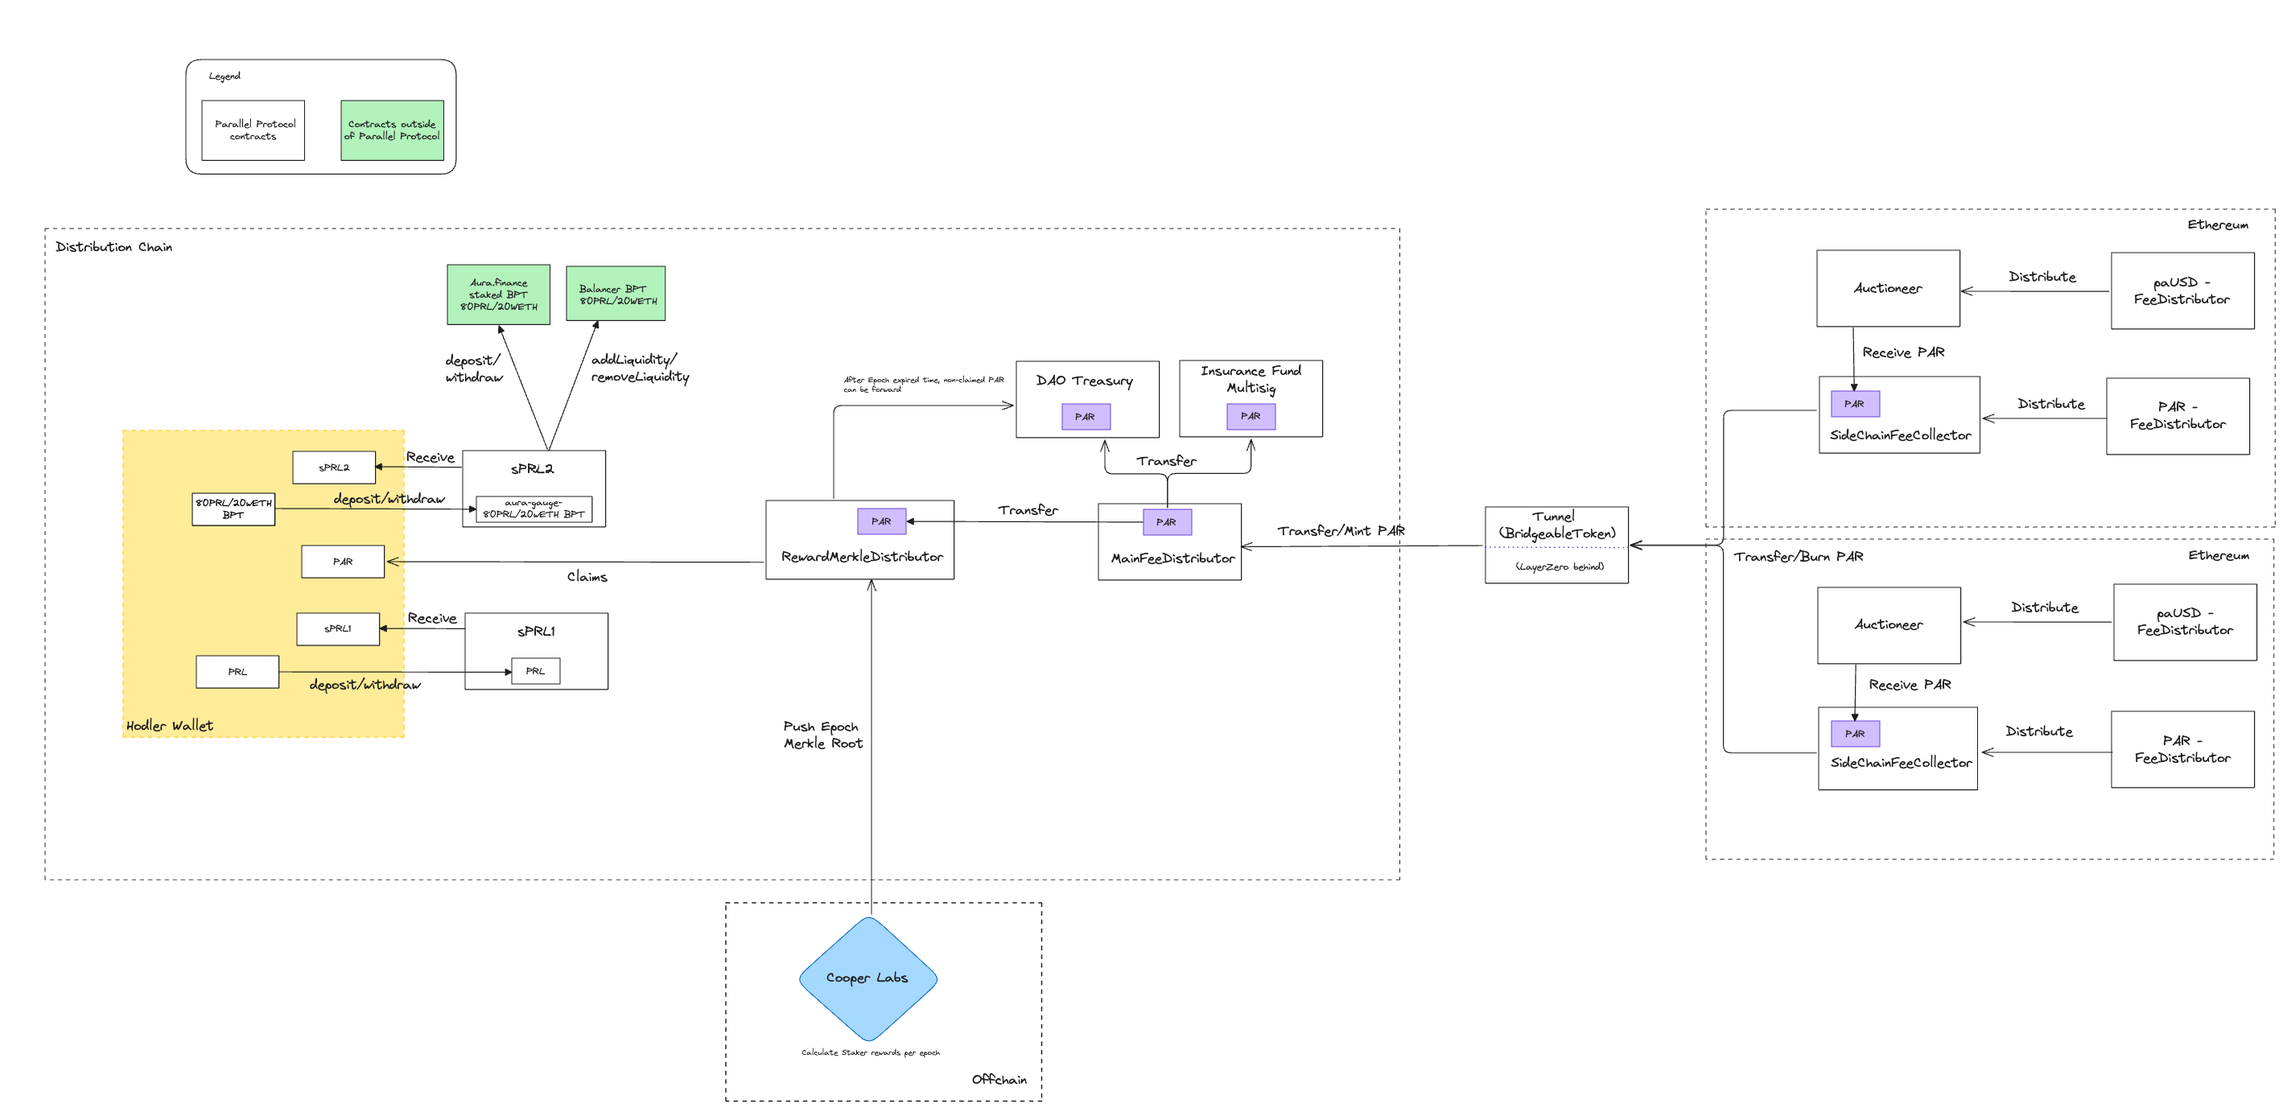
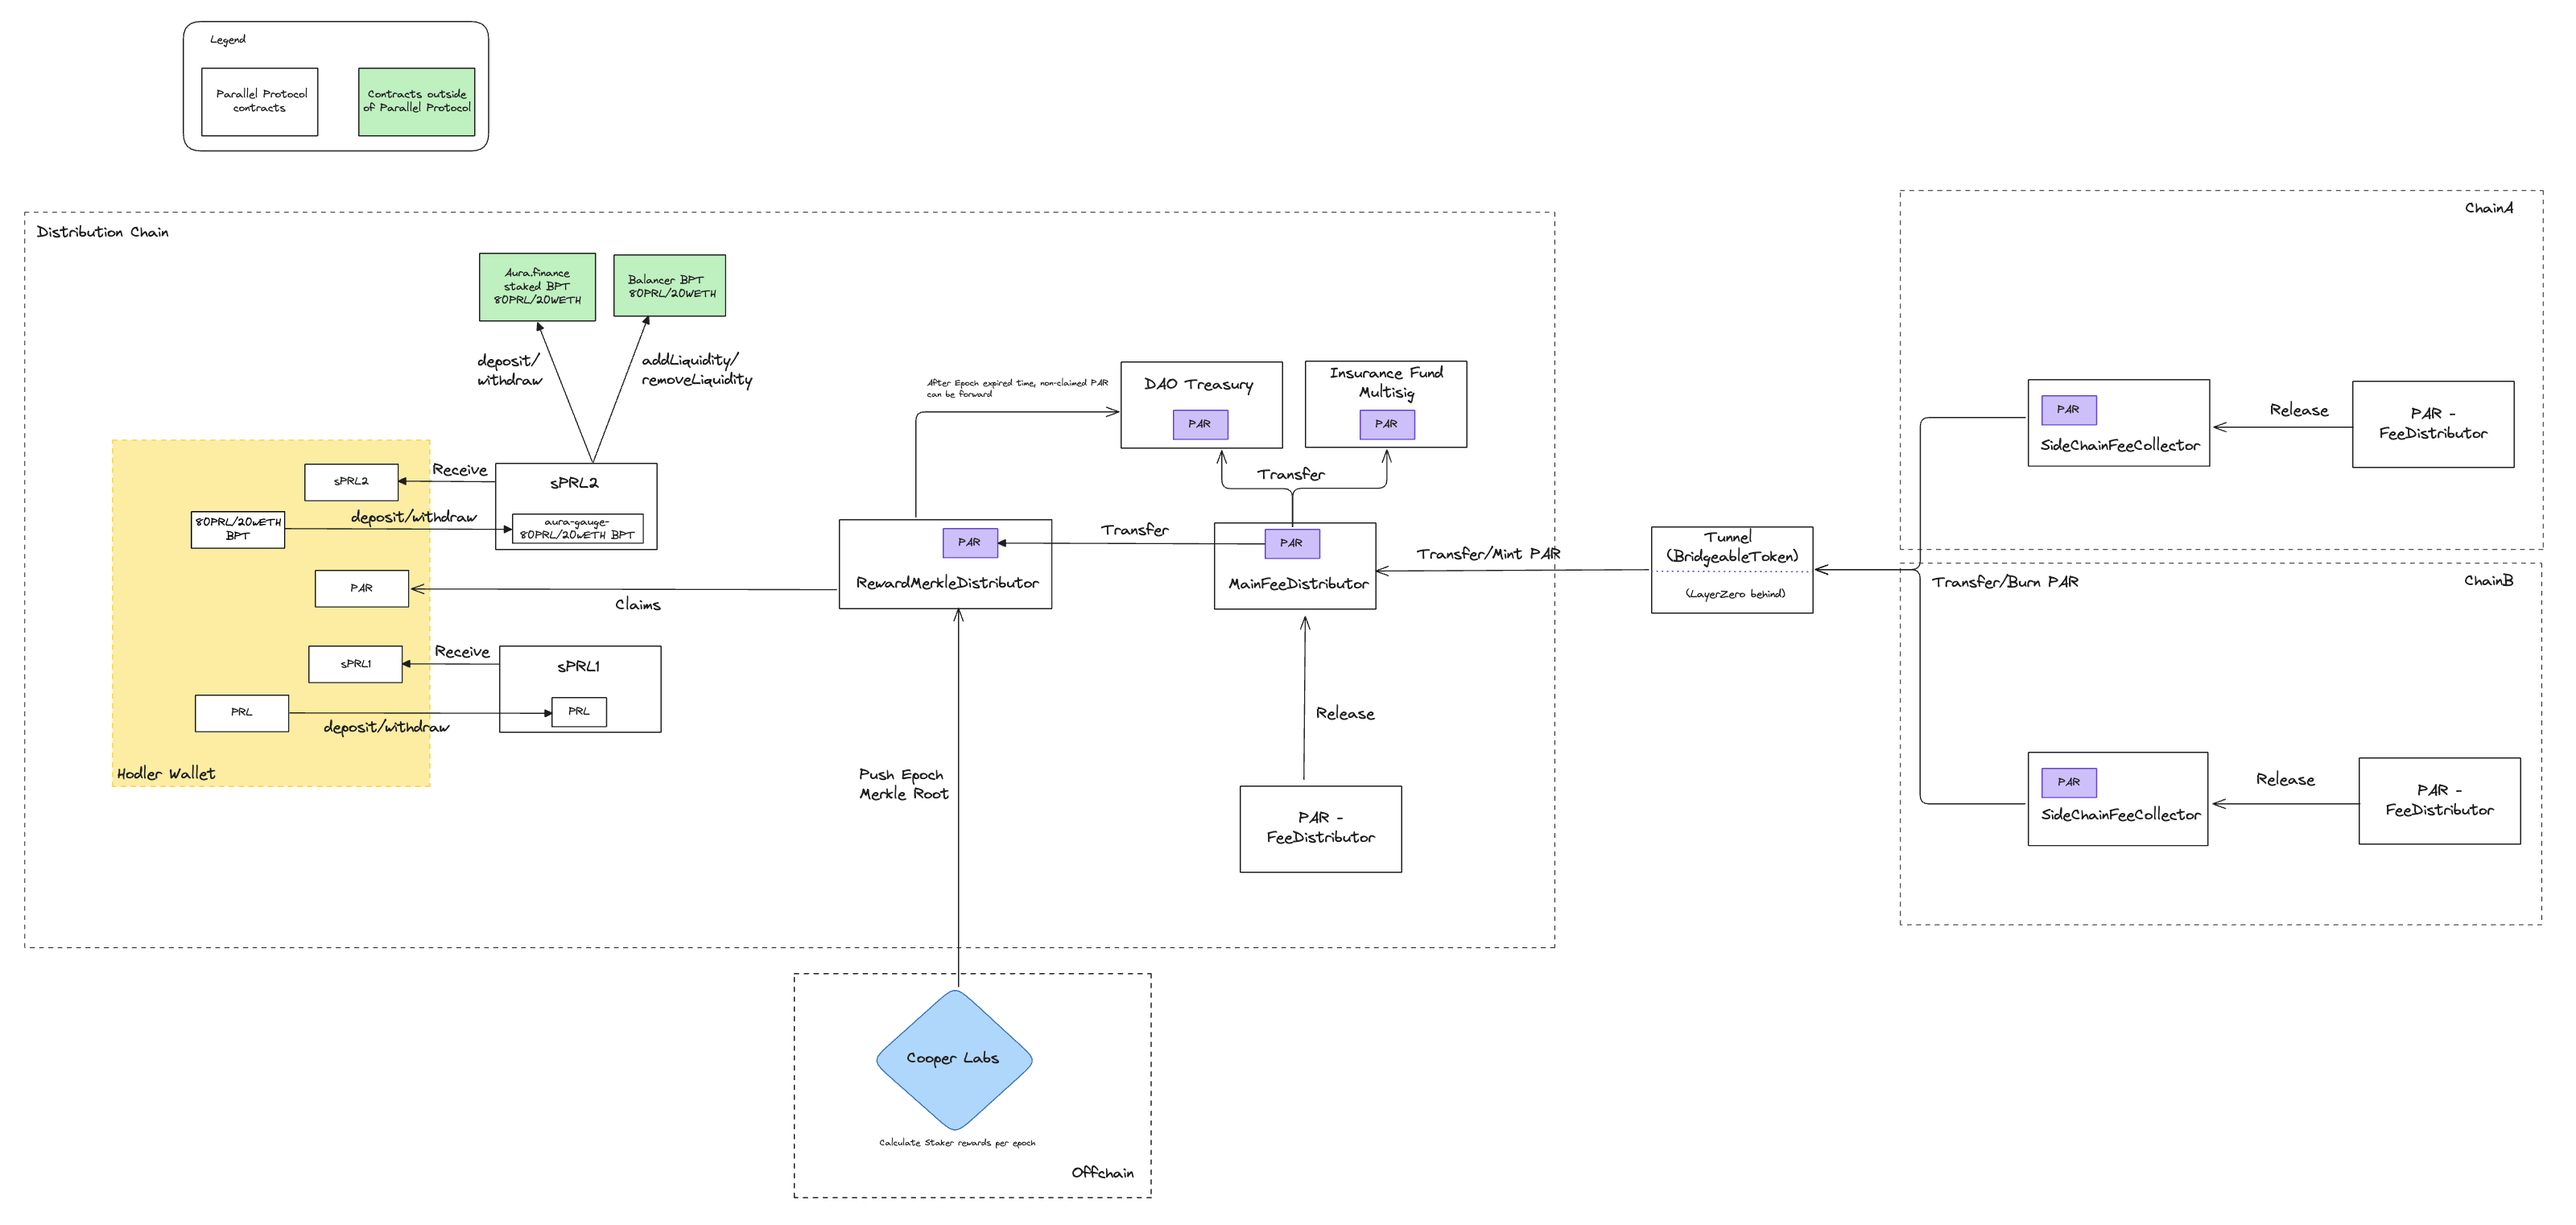
docs: update documentation

diff --git a/hardhat.config.ts b/hardhat.config.ts
@@ -32,7 +32,7 @@ const config: HardhatUserConfig = {
         settings: {
           optimizer: {
             enabled: true,
-            runs: 1000,
+            runs: 10_000,
           },
         },
       },

diff --git a/docs/TechnicalSpecs.md b/docs/TechnicalSpecs.md
@@ -4,8 +4,6 @@
 
 The Parallel Tokenomics is a set of contracts that allows :
 
-- to run dutch auctions for getting a single fee token and that will be sent to the fee distributor deployed on that
-  chain (Auctioneer)
 - to send the fees to the main fee distributor on the destination chain (SideChainFeeDistributor)
 - to distribute fees generated by the protocol to the listed fee receivers (MainFeeDistributor)
 - users to stake their PRL tokens to earn rewards either in single staking (sPRL1) or in a 80PRL/20WETH balancer pool
@@ -26,79 +24,82 @@ See below the high level architecture of the protocol:
 
 ## 3. Key Operation Flows
 
-### 3.1 Auction Flow
-
-- At start the deployer will set the initial price, duration of the auction, the price multiplier and the start time of
-  the first auction.
-- At the start time, the auction will be open and the total price expected to be paid will decrease until the end of the
-  auction duration.
-- When someone buys the assets, the price will be updated using the price multiplier, the current paid price and the
-  minimum price.
-- The token used to pay for the assets will be sent to the payment receiver (SideChainFeeCollertor or MainFeeDistributor
-  depending on the chain).
-
-### 3.2 Staking Flow
+### 3.1 Staking Flow
 
 This section contains the flows related to the staking part of the protocol.
 
-#### 3.2.1 sPRL1 Flow
+#### 3.1.1 sPRL1 Flow
 
-##### 3.2.1.1 sPRL1 Deposit
+##### 3.1.1.1 sPRL1 Deposit
 
 - Transfer PRL tokens to the sPRL1 contract
 - Mint sPRL1 tokens to the user equivalent to the amount of PRL tokens transferred
 
-##### 3.2.1.2 sPRL1 Request Withdraw
+##### 3.1.1.2 sPRL1 Request Withdraw
 
 - Burn the amount of sPRL1 tokens that the user wants to withdraw
 - Set the unlocking time for this request
 
-##### 3.2.1.3 sPRL1 Withdraw
+##### 3.1.1.3 sPRL1 Withdraw
 
 - Calculate the penalty based on the time left before the unlocking time.
 - Send the PRL tokens to the user
 - mint sPRL1 tokens to the fee receiver equal to the amount slashed from the penalty.
 
-#### 3.2.2 sPRL2 Flow
+##### 3.1.1.4 sPRL1 EmergencyWithdraw
+
+- Burn the amount of sPRL1 tokens that the user wants to withdraw
+- Send the PRL tokens to the user without penalties.
+
+#### 3.1.2 sPRL2 Flow
 
 This section contains the flows related to the sPRL2 contract.
 
-##### 3.2.2.1 sPRL2 Deposit PRL/WETH or PRL/ETH
+##### 3.1.2.1 sPRL2 Deposit PRL/WETH or PRL/ETH
 
 - Transfer PRL/WETH or PRL/ETH to the sPRL2 contract
 - Deposit ETH to WETH if needed
 - Add PRL/WETH liquidity into the Balancer pool (80PRL/20WETH)
 - Receive BPT tokens
 - Stake BPT tokens in Aura
-- Receive Aura BPT lp tokens
 - mint sPRL2 tokens to the user equivalent to the amount of Aura BPT lp tokens received
 
-##### 3.2.2.1 sPRL2 Deposit Aura BPT 80PRL/20WETH
+##### 3.1.2.2 sPRL2 Deposit BPT 80PRL/20WETH
 
-- Transfer PRL/WETH or PRL/ETH to the sPRL2 contract
-- Mint sPRL2 tokens to the user equivalent to the amount of PRL/WETH or PRL/ETH transferred
+- Transfer BPT to the sPRL2 contract
+- Deposit BPT into Aura pool and stake it
+- Mint sPRL2 tokens to the user equivalent to the amount of BPT transferred
 
-##### 3.2.2.2 sPRL2 Request Withdraw
+##### 3.1.2.3 sPRL2 Request Withdraw
 
 - Burn the amount of sPRL2 tokens that the user wants to withdraw
 - Set the unlocking time for this request
 
-##### 3.2.2.3 sPRL2 Withdraw PRL/ETH or PRL/WETH
+##### 3.1.2.4 sPRL2 Withdraw PRL/ETH or PRL/WETH
 
 - Calculate the penalty based on the time left before the unlocking time.
-- Withdraw the amount of Aura BPT lp tokens that the can withdraw after penalties from the Aura pool
+- Withdraw and unwrap the amount of Aura BPT
 - Receive Balancer BPT tokens from Aura
 - Withdraw the amount of PRL/WETH from the Balancer pool
 - Send the PRL/WETH to the user or PRL/ETH to the user
-- Mint sPRL2 tokens to the fee receiver equal to the amount slashed from the penalty.
+- Send the BPT lp penalty to the fee receiver
 
-##### 3.2.2.3 sPRL2 Withdraw Aura BPT 80PRL/20WETH
+##### 3.1.2.5 sPRL2 Withdraw BPT 80PRL/20WETH
 
 - Calculate the penalty based on the time left before the unlocking time.
-- Send the Aura BPT lp tokens to the user
-- Send the Aura BPT lp penalty to the fee receiver
+- Withdraw the amount of Aura BPT from Aura
+- Receive Balancer BPT tokens from Aura
+- Send the BPT lp tokens to the user
+- Send the BPT lp penalty to the fee receiver
 
-### 3.3 Reward Distribution Flow
+##### 3.1.2.6 sPRL2 EmergencyWithdraw
+
+- Burn the amount of sPRL2 tokens that the user wants to withdraw
+- Withdraw the amount of Aura BPT from Aura
+- Receive Balancer BPT tokens from Aura
+- Send the BPT tokens to the user without penalties.
+
+### 3.2 Reward Distribution Flow
 
 - RewardMerkleDistributor will receive the fees from the MainFeeDistributor at any time.
 - Using off-chain events and calculations, the protocol retrieve the total amount received during a specific period.
@@ -149,28 +150,12 @@ using Parallel Tunnel. Inherits from FeeCollectorCore.
 
 **function details**:
 
-- `release()` | **Permissionless** : Will create a LayerZero message and transfer the balance of fee token owned by the
+- `release()` | **Restricted** : Will create a LayerZero message and transfer the balance of fee token owned by the
   contract to the BridgeableToken contract.
-
-#### 4.1.4 [Auctioneer](../contracts/fees/Auctioneer.sol)
-
-This contract is used to run dutch auctions for getting a single fee token and that will be sent to the fee distributor
-deployed on that chain. Inspired by [FeeFlowController](https://github.com/euler-xyz/fee-flow) the auction using a init
-price and duration that will be used to calculate the price of the auction.
-
-**function details**:
-
-- `buy(address[] calldata _assets, address _assetsReceiver, uint256 _epochId, uint256 _maxPaymentTokenAmount)` |
-  **Permissionless** : Allow to buy assets by transferring payment tokens and receiving the assets.
-- `emergencyRescue(address _token, address _to, uint256 _amount)` | **Restricted** : Allow to rescue tokens from the
-  contract.
-- `updatePaymentToken(address _newPaymentToken)` | **Restricted** : Allow change the payment token expected to receive.
-- `updatePaymentReceiver(address _newPaymentReceiver)` | **Restricted** : Allow change the destination receiver of the
-  fee token.
-- `updateEpochSettings(uint256 _epochDuration, uint256 _initPrice, uint256 _priceMultiplier, uint256 _minInitPrice)` |
-  **Restricted** : Allow change the epoch settings.
-- `pause()` | **Restricted** : Allow to pause the contract.
-- `unpause()` | **Restricted** : Allow to unpause the contract.
+- `updateBridgeableToken(address _newBridgeableToken)`| **Restricted** : Allow to update the bridgeable token contract
+  (parallel tunnel).
+- `updateDestinationReceiver(address _newDestinationReceiver)` | **Restricted** : Allow to update the destination
+  receiver address.
 
 ### 4.2 Staking
 
@@ -178,10 +163,9 @@ This section contains the contracts related to the staking part of the protocol.
 
 #### 4.2.1 [TimeLockPenaltyERC20](../contracts/sPRL/TimeLockPenaltyERC20.sol)
 
-This abstract contract is used to handle commun logic between sPRL1 and sPRL2. The main feature of it, it's to deposit a
-specific ERC20 and apply a lock time duration for withdrawals. Users is also able to withdraw their tokens before the
-lock time but will be penalized by a penalty fee on the withdraw amount that is calculated based on the time left before
-the lock time.
+This abstract contract is used to handle commun logic between sPRL1 and sPRL2. The main feature of it, it's to apply a
+lock time duration for withdrawals. Users is also able to withdraw their tokens before the lock time but will be
+penalized by a penalty fee on the withdraw amount that is calculated based on the time left before the lock time.
 
 **Parameters**:
 
@@ -191,15 +175,8 @@ the lock time.
 
 **function details**:
 
-- `deposit(uint256 _amount)` | **Permissionless** : Allow to deposit the underlying ERC20 and mint the equivalent amount
-  of tokens.
-- `depositWithPermit(uint256 _amount, uint256 _deadline, uint8 _v, bytes32 _r, bytes32 _s)` | **Permissionless** : Allow
-  to deposit the underlying ERC20 using ERC20Permit and mint the equivalent amount of tokens.
-- `withdraw(uint256[] calldata _ids)` | **Permissionless** : Allow to withdraw single and multiple withdrawal requests.
-  If the user withdraw before the lock time, the penalty will be applied.
-- `emergencyWithdraw(uint256 _unlockingAmount)` | **Permissionless** : Allow sPRL2 owner to emergency withdraw assets
-  without penalties.
-- `requestWithdraw(uint256 _unlockingAmount)` | **Permissionless** : Request a withdrawal of the deposited ERC20.
+- `requestWithdraw(uint256 _unlockingAmount)` | **Permissionless** : Request a withdrawal of the deposited underlying
+  ERC20.
 - `cancelWithdrawalRequests(uint256[] calldata _ids)` | **Permissionless** : Allow to cancel single and multiple
   withdrawal requests.
 - `updateTimeLockDuration(uint64 _newTimeLockDuration)` | **Restricted** : Allow to update the time lock duration.
@@ -214,15 +191,27 @@ the lock time.
 This contract allow users to stake their PRL tokens to receive sPRL1 tokens and be able to get rewards from the
 RewardMerkleDistributor. Inherits from TimeLockPenaltyERC20 without addidtional features.
 
+**function details**:
+
+- `deposit(uint256 _amount)` | **Permissionless** : Allow to deposit PRLs and mint the equivalent amount of sPRL1.
+- `depositWithPermit(uint256 _amount, uint256 _deadline, uint8 _v, bytes32 _r, bytes32 _s)` | **Permissionless** : Allow
+  to deposit PRLs using ERC20Permit and mint the equivalent amount of sPRL1.
+- `withdraw(uint256[] calldata _ids)` | **Permissionless** : Allow to withdraw single and multiple withdrawal requests.
+  If the user withdraw before the lock time, the penalty will be applied.
+- `emergencyWithdraw(uint256 _unlockingAmount)` | **Permissionless** : Allow to emergency withdraw assets without
+  penalties. Only callable when the contract is paused.
+
 #### 2.2.3 [sPRL2](../contracts/sPRL/sPRL2.sol)
 
-This contract allow users to stake their Balancer BPT of PRL/ETH staked into Aura.finance token and receive sPRL2
-tokens. This contract is also able to directly deposit PRL and ETH (or WETH) into the Balancer pool and to deposit the
-BPT into the Aura.finance pool. Regarding the withdraw, users can withdraw their Aura Lps or the amount of PRL/ETH or
-PRL/WETH.
+This contract allow users to stake either their Balancer BPT or their PRL/ETH. BPT will be staked into Aura.finance and
+user will receive sPRL2 tokens equal to their BPT amount. This contract is also able to directly deposit PRL and ETH (or
+WETH) into the Balancer pool and to deposit the BPT into the Aura.finance pool. On the withdraw side, users can withdraw
+their the BPT or the amount of PRL/ETH or PRL/WETH linked to the BPT.
 
 **function details**:
 
+- `depositBpt(uint256 _amount)` | **Permissionless** : Allow to deposit BPT and mint the equivalent amount of sPRL2 to
+  the user.
 - `depositPRLAndWeth(uint256 _maxPrlAmount, uint256 _maxWethAmount, uint256 _exactBptAmount, uint256 _deadline, uint8 _v, bytes32 _r, bytes32 _s)`
   | **Permissionless** : Allow to deposit PRL and WETH and mint the equivalent amount of sPRL2 to the user.
 - `depositPRLAndEth(uint256 _maxPrlAmount, uint256 _exactBptAmount, uint256 _deadline, uint8 _v, bytes32 _r, bytes32 _s)`
@@ -230,8 +219,12 @@ PRL/WETH.
 - `withdrawPRLAndWeth(uint256[] calldata _requestIds, uint256 _minPrlAmount, uint256 _minWethAmount)` |
   **Permissionless** : Allow to withdraw single and multiple requests of PRL and WETH from the Balancer pool attached to
   the sPRL2 token.
+- `withdrawBpt(uint256[] calldata _requestIds, uint256 _minBptAmount)` | **Permissionless** : Allow to withdraw single
+  and multiple requests of BPT from the Aura.finance pool attached to the sPRL2 token.
 - `claimRewards()` | **Permissionless** : Allow to claim the rewards generated by the BPT staked into Aura.finance and
   to send them to the fee receiver.
+- `emergencyWithdraw(uint256 _unlockingAmount)` | **Permissionless** : Allow to emergency withdraw assets without
+  penalties. Only callable when the contract is paused.
 
 ### 2.3 Rewards
 

diff --git a/README.md b/README.md
@@ -25,7 +25,7 @@ The Parallel Tokenomics system consists of smart contracts that enable:
 - PRL tokens for staking (sPRL2 requires Balancer V3 and Aura.finance)
 - ETH/WETH for sPRL2 liquidity provision
 - Expected supported networks:
-  - sPRL(s) tokens: Mainnet
+  - sPRL(s) tokens: Mainnet (as BalancerV3 and Aura.finance are required)
   - RewardMerkleDistributor: Mainnet
   - MainFeeDistributor: Mainnet
   - SideChainFeeDistributor: Polygon, Fantom
